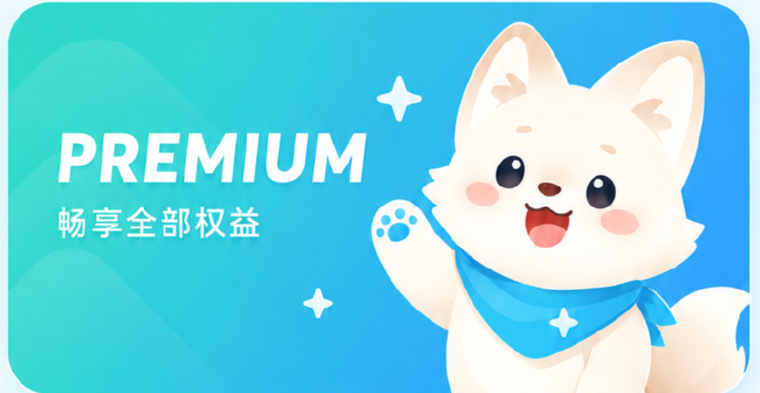
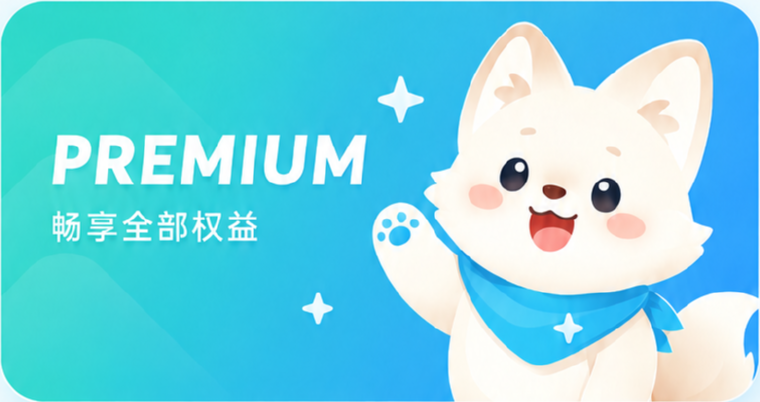
app: 青蓝渐变系按参考稿精确测量校准
先前是手工采样的近似值，改用弧线拟合与平面最小二乘的实测值收口：
- hero 切片矩形修正为 36,200,781x413（原先左右各多切了几 px 页底）
- 页边距 11 → 16；权益卡圆角 19 → 12、图标圆 46 → 44、内边距 12、间距 13/14
- 卡面由纯白改 #FAFDFE（参考稿是 60% 白叠页底），投影改青调
  rgb(45 155 200 / 9%)（实测投影只压 R 通道，不是中性黑）
- 墨色三阶改蓝调 #0A1330 / #44557A / #58677F（笔画核心采样）
- 方案卡：高 113、圆角 14、未选边 #DCEDF9、选中边 #0F97FA + 底 #ECF8FE
- 推荐角标改近实色 #26A8FC（实测色偏方向与主渐变相反，非同一渐变）
- 协议链接 #1092FB、选中价格 #0F7FD8
守卫白名单加入墨色三阶。测试全绿；帧间隔 p95 16.8ms、无持续掉帧。

Claude-Session: https://claude.ai/code/session_01C8B3HPajWe4RVrv9kqSKTs

diff --git a/client/src/styles/app-rainbow.css b/client/src/styles/app-rainbow.css
@@ -6,9 +6,11 @@
      · 浅蓝渐变页底 + 纯白圆角卡
      · 青 → 蓝渐变是唯一的强调色（圆形图标芯片 / 主按钮 / CTA / 进度）
      · 不再有任何按位次配色的六色点缀
-   色值与几何全部取自用户提供的参考稿逐像素采样（853px 原图 → 390 逻辑宽 ×0.457）：
+   色值与几何全部取自参考稿逐像素测量（853px 原图 ÷2.187 → 390 逻辑宽；
+   圆角为弧线拟合、渐变端点为平面最小二乘外推，非目测）：
      主渐变 #38DAD2 → #2E9FF7 · 图标芯片 #6BE8EA → #22BCF4 · CTA #22DCDF → #2AA0FA
-     页底 #EFF8FD · 白卡 #FFF · 卡圆角 19px · 页边距 11px · 图标圆 46px
+     页底 #EFF8FD · 卡面 #FAFDFE（60% 白叠页底）· 蓝调墨 #0A1330/#44557A/#58677F
+     页边距 16 · 权益卡圆角 12/图标圆 44 · 方案面板圆角 22 · 投影为青调非中性黑
    本层职责=颜色/材质；动效在 app-rainbow-motion.css。渐变一律静态一次光栅化。
    ========================================================================== */
 
@@ -40,9 +42,14 @@ html[data-app="1"] {
   --ix-act-soft: rgb(46 159 247 / 10%);
   --ix-focus: #2E9FF7;
 
-  /* 几何：参考稿是更软的圆角语言 */
+  /* 墨色三阶：参考稿是蓝调墨（弧线/笔画核心采样，非目测） */
+  --ix-ink: #0A1330;
+  --ix-ink-2: #44557A;
+  --ix-ink-3: #58677F;
+
+  /* 几何：参考稿弧线拟合值 —— 卡 12 / 面板 22 / 控件 12 */
   --ix-r-key: 12px;
-  --ix-r-card: 19px;
+  --ix-r-card: 16px;
   --ix-r-panel: 22px;
 }
 
@@ -185,10 +192,10 @@ html[data-app="1"] .app-dock .app-fab-halo::before {
 html[data-app="1"] :where(.ah-shortcuts, .ah-hero-card, .ah-resume, .qa-weekly-card,
   .msgs-entry-group, .pf-group, .pf-stats, .qa-glance, .qa-settings-group,
   .qa-achievements-card, .qa-ach-wall, .vm-sheet) {
-  background: #fff !important;
+  background: #FAFDFE !important;
   border-radius: var(--ix-r-card) !important;
   border: 0 !important;
-  box-shadow: 0 2px 10px rgb(20 70 110 / 6%) !important;
+  box-shadow: 0 2px 10px rgb(45 155 200 / 9%) !important;
 }
 
 /* ── 4. 选中态 / 进度 / 指示：青蓝渐变 ── */
@@ -314,7 +321,7 @@ html[data-app="1"] .qa-vip .vipx-scroll {
   background: transparent !important;
 }
 html[data-app="1"] .qa-vip .vipx-scroll {
-  padding: 4px 11px 0 !important;
+  padding: 4px 16px 0 !important;
 }
 html[data-app="1"] .qa-vip .vm-top {
   background: transparent !important;
@@ -326,10 +333,10 @@ html[data-app="1"] .qa-vip .vm-top {
 html[data-app="1"] .qa-vip .vipx-hero {
   position: relative;
   display: block;
-  margin: 6px 0 14px;
-  border-radius: 19px;
+  margin: 6px 0 18px;
+  border-radius: 20px;
   overflow: hidden;
-  box-shadow: 0 10px 24px rgb(42 160 250 / 22%);
+  box-shadow: 0 8px 22px rgb(45 155 200 / 18%);
   line-height: 0;
 }
 html[data-app="1"] .qa-vip .vipx-hero-art {
@@ -364,23 +371,23 @@ html[data-app="1"][data-perf="lite"] .qa-vip .vipx-hero-state {
 html[data-app="1"] .qa-vip .vipx-perks {
   display: grid;
   grid-template-columns: repeat(2, minmax(0, 1fr));
-  gap: 11px;
-  margin-bottom: 14px;
+  gap: 13px 14px;
+  margin-bottom: 17px;
 }
 html[data-app="1"] .qa-vip .vipx-perk {
   display: flex;
   align-items: center;
-  gap: 11px;
-  padding: 14px 12px;
-  border-radius: 19px;
-  background: #fff;
-  box-shadow: 0 2px 10px rgb(20 70 110 / 6%);
+  gap: 12px;
+  padding: 12px;
+  border-radius: 12px;
+  background: #F8FCFE;
+  box-shadow: 0 2px 8px rgb(45 155 200 / 8%);
   min-width: 0;
 }
 html[data-app="1"] .qa-vip .vipx-perk-ic {
   flex: 0 0 auto;
-  width: 46px;
-  height: 46px;
+  width: 44px;
+  height: 44px;
   display: grid;
   place-items: center;
   border-radius: 50%;
@@ -407,10 +414,10 @@ html[data-app="1"] .qa-vip .vipx-perk-tx small {
 
 /* —— 方案承载卡 —— */
 html[data-app="1"] .qa-vip .vipx-sheet {
-  padding: 18px 14px 16px;
+  padding: 19px 16px 16px;
   border-radius: 22px;
-  background: #fff;
-  box-shadow: 0 2px 12px rgb(20 70 110 / 7%);
+  background: #FAFDFE;
+  box-shadow: 0 2px 12px rgb(45 155 200 / 9%);
 }
 html[data-app="1"] .qa-vip .vipx-sheet-head {
   display: flex;
@@ -420,8 +427,8 @@ html[data-app="1"] .qa-vip .vipx-sheet-head {
 }
 html[data-app="1"] .qa-vip .vipx-sheet-title {
   margin: 0;
-  font-size: 18px;
-  font-weight: 800;
+  font-size: 17px;
+  font-weight: 700;
   color: var(--ix-ink);
 }
 html[data-app="1"] .qa-vip .vipx-redeem.qa-button {
@@ -436,7 +443,7 @@ html[data-app="1"] .qa-vip .vipx-redeem.qa-button {
 html[data-app="1"] .qa-vip .vipx-plans {
   display: grid;
   grid-template-columns: repeat(3, minmax(0, 1fr));
-  gap: 9px;
+  gap: 10px;
 }
 /* AppButton 把 children 包进 .qa-button__content（横向 flex），
    竖排必须钉在那一层，否则名称/价格/单价会挤成一行溢出。 */
@@ -456,18 +463,18 @@ html[data-app="1"] .qa-vip .vipx-plan.qa-button {
   align-items: center;
   justify-content: center;
   gap: 3px;
-  min-height: 104px !important;
+  min-height: 113px !important;
   padding: 14px 4px 12px !important;
-  border-radius: 15px !important;
-  border: 1.5px solid #E2EEF6 !important;
-  background: #FBFDFF !important;
+  border-radius: 14px !important;
+  border: 1px solid #DCEDF9 !important;
+  background: #FAFDFE !important;
   background-image: none !important;
   box-shadow: none !important;
   overflow: visible !important;
 }
 html[data-app="1"] .qa-vip .vipx-plan.qa-button.on {
-  border-color: #2E9FF7 !important;
-  background: rgb(46 159 247 / 7%) !important;
+  border-color: #0F97FA !important;
+  background: #ECF8FE !important;
 }
 html[data-app="1"] .qa-vip .vipx-plan .vipx-plan-rec {
   position: absolute;
@@ -476,13 +483,13 @@ html[data-app="1"] .qa-vip .vipx-plan .vipx-plan-rec {
   transform: translateX(-50%);
   padding: 2px 9px;
   border-radius: 999px;
-  background: var(--ix-rainbow-grad-h);
+  background: #26A8FC;
   color: #fff;
   font-size: 10.5px;
   font-weight: 700;
   letter-spacing: .02em;
   white-space: nowrap;
-  box-shadow: 0 3px 8px rgb(42 160 250 / 34%);
+  box-shadow: 0 3px 8px rgb(38 168 252 / 34%);
 }
 html[data-app="1"] .qa-vip .vipx-plan .vipx-plan-name {
   font-size: 13px;
@@ -504,7 +511,7 @@ html[data-app="1"] .qa-vip .vipx-plan .vipx-plan-price {
   max-width: 100%;
 }
 html[data-app="1"] .qa-vip .vipx-plan .vipx-plan-price svg { flex: 0 0 auto; }
-html[data-app="1"] .qa-vip .vipx-plan.on .vipx-plan-price { color: #1B7FD0; }
+html[data-app="1"] .qa-vip .vipx-plan.on .vipx-plan-price { color: #0F7FD8; }
 html[data-app="1"] .qa-vip .vipx-plan .vipx-plan-per {
   font-size: 10.5px;
   color: var(--ix-ink-3);
@@ -552,7 +559,7 @@ html[data-app="1"] .qa-vip .vipx-agree input:checked + .vipx-check {
 }
 html[data-app="1"] .qa-vip .vipx-agree em {
   font-style: normal;
-  color: var(--ix-act);
+  color: #1092FB;
 }
 html[data-app="1"] .qa-vip .vipx-ledger.qa-button {
   width: 100%;
